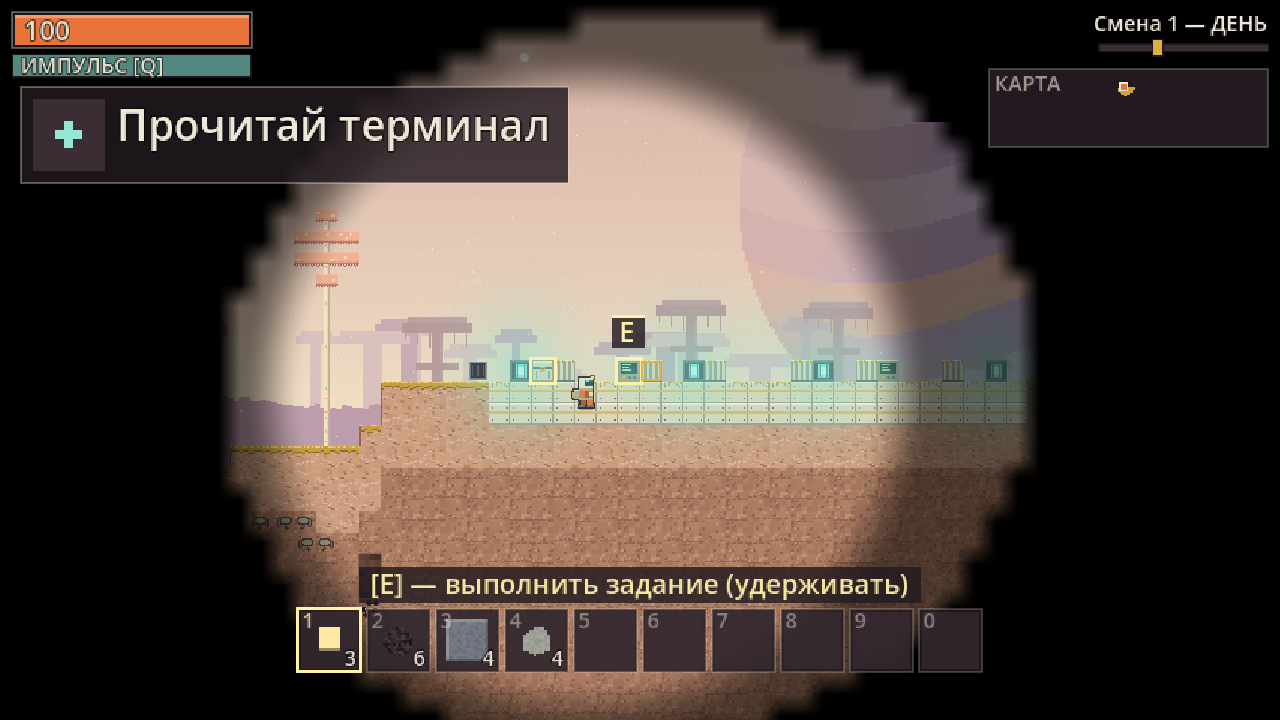
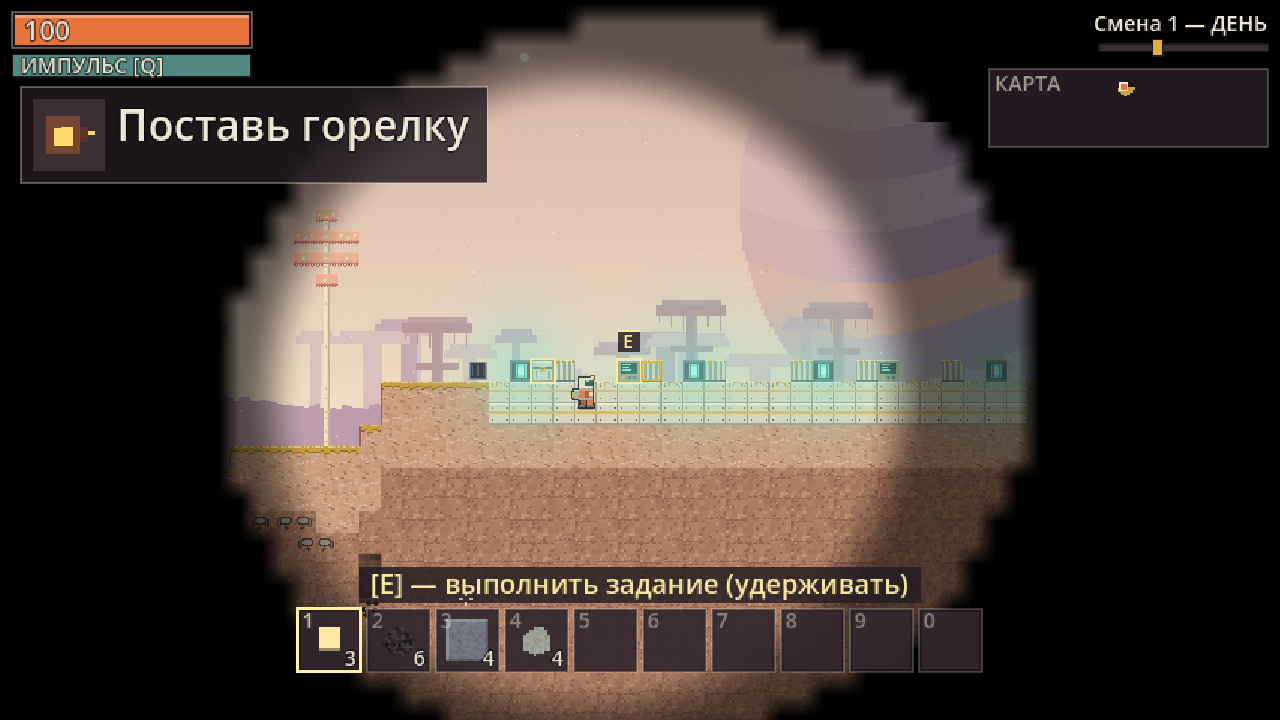
Первая цель свободной игры: поставь горелку
Этап 1/6 теперь закрывает живая горелка на карте, а не только прочитанный
терминал: карточка, трекер и вступление зовут поставить горелку, маркер
ведёт к сундуку лагеря с углём. Терминал остаётся достаточным — старые
сейвы и сценарии без горелки не ломаются.

Обучение по-прежнему доводит до шага «Терминал: держите [E]»: цепочку
закрывает tasks_done, а не этап 1. Это осознанное отличие от плана:
горелка ставится раньше терминала, и подсказка должна успеть показаться.

Сценарии objective_stages и hud_tracker проверяют горелку, снятую горелку
и новый текст карточки. README и кадр карточки обновлены.

Changed region(s): [[0.125, 0.1222, 0.4688, 0.275], [0.0312, 0.1528, 0.125, 0.2139], [0.4688, 0.4278, 0.5312, 0.4889]]

diff --git a/README.md b/README.md
@@ -187,7 +187,7 @@
 и **Радужное ядро**. У героя в руках: 3 светокристалла, 6 угля, 4 камня и 4 хлама.
 Забег начинается на рассвете, до ночи полный день, около 150 секунд.
 
-![Карточка свободной цели: «Прочитай терминал»](docs/img/shots/freeplay_goal.png)
+![Карточка свободной цели: «Поставь горелку»](docs/img/shots/freeplay_goal.png)
 
 **2. Копайте через пустоту.** Зажмите ЛКМ на клетке не дальше 5,6 клетки от себя.
 Ломается первая твёрдая клетка на луче от героя к курсору. Клетка за стеной не
@@ -346,9 +346,9 @@ Esc закрывает его. На телефоне то же делает кн
 | справа внизу | уведомления: чертежи, находки, «Сигнал: осталось N с» |
 | внизу по центру | подсказка к цели E и **хотбар**: 10 ячеек (1…0) на ПК, 6 крупных (1…6) на телефоне |
 
-Карточка на кадре ниже — первая цель свободной игры: «Прочитай терминал».
+Карточка на кадре ниже — первая цель свободной игры: «Поставь горелку».
 
-![Карточка свободной цели: «Прочитай терминал»](docs/img/shots/freeplay_goal.png)
+![Карточка свободной цели: «Поставь горелку»](docs/img/shots/freeplay_goal.png)
 
 **Туман войны.** Неразведанное — чёрное. Вокруг героя открывается круг обзора:
 16 клеток на поверхности и 8 под землёй. Разведанное вне круга остаётся видно, но затемнено.
@@ -486,7 +486,7 @@ Esc закрывает его. На телефоне то же делает кн
 
 | Этап | Что сделать |
 |---|---|
-| **1/6 ЗАПИТАЙ БАЗУ** | прочитать терминал лагеря (держать **E**): чертёж и глава журнала |
+| **1/6 ПОСТАВЬ ГОРЕЛКУ** | скрафтить горелку (4 камня и 2 хлама) и поставить у базы. Прочитанный терминал тоже закрывает этап |
 | **2/6 ДОБУДЬ РУДУ** | сломать 12 клеток руды: уголь, медь, железо или кристалл. Хлам и камень не считаются |
 | **3/6 ПЕРЕЖИВИ НОЧЬ** | дождаться рассвета после одной ночи |
 | **4/6 ЗАЖГИ ДУГИ** | пустить в ядро красный, зелёный, синий, жёлтый, голубой и пурпурный. Белый не считается |
